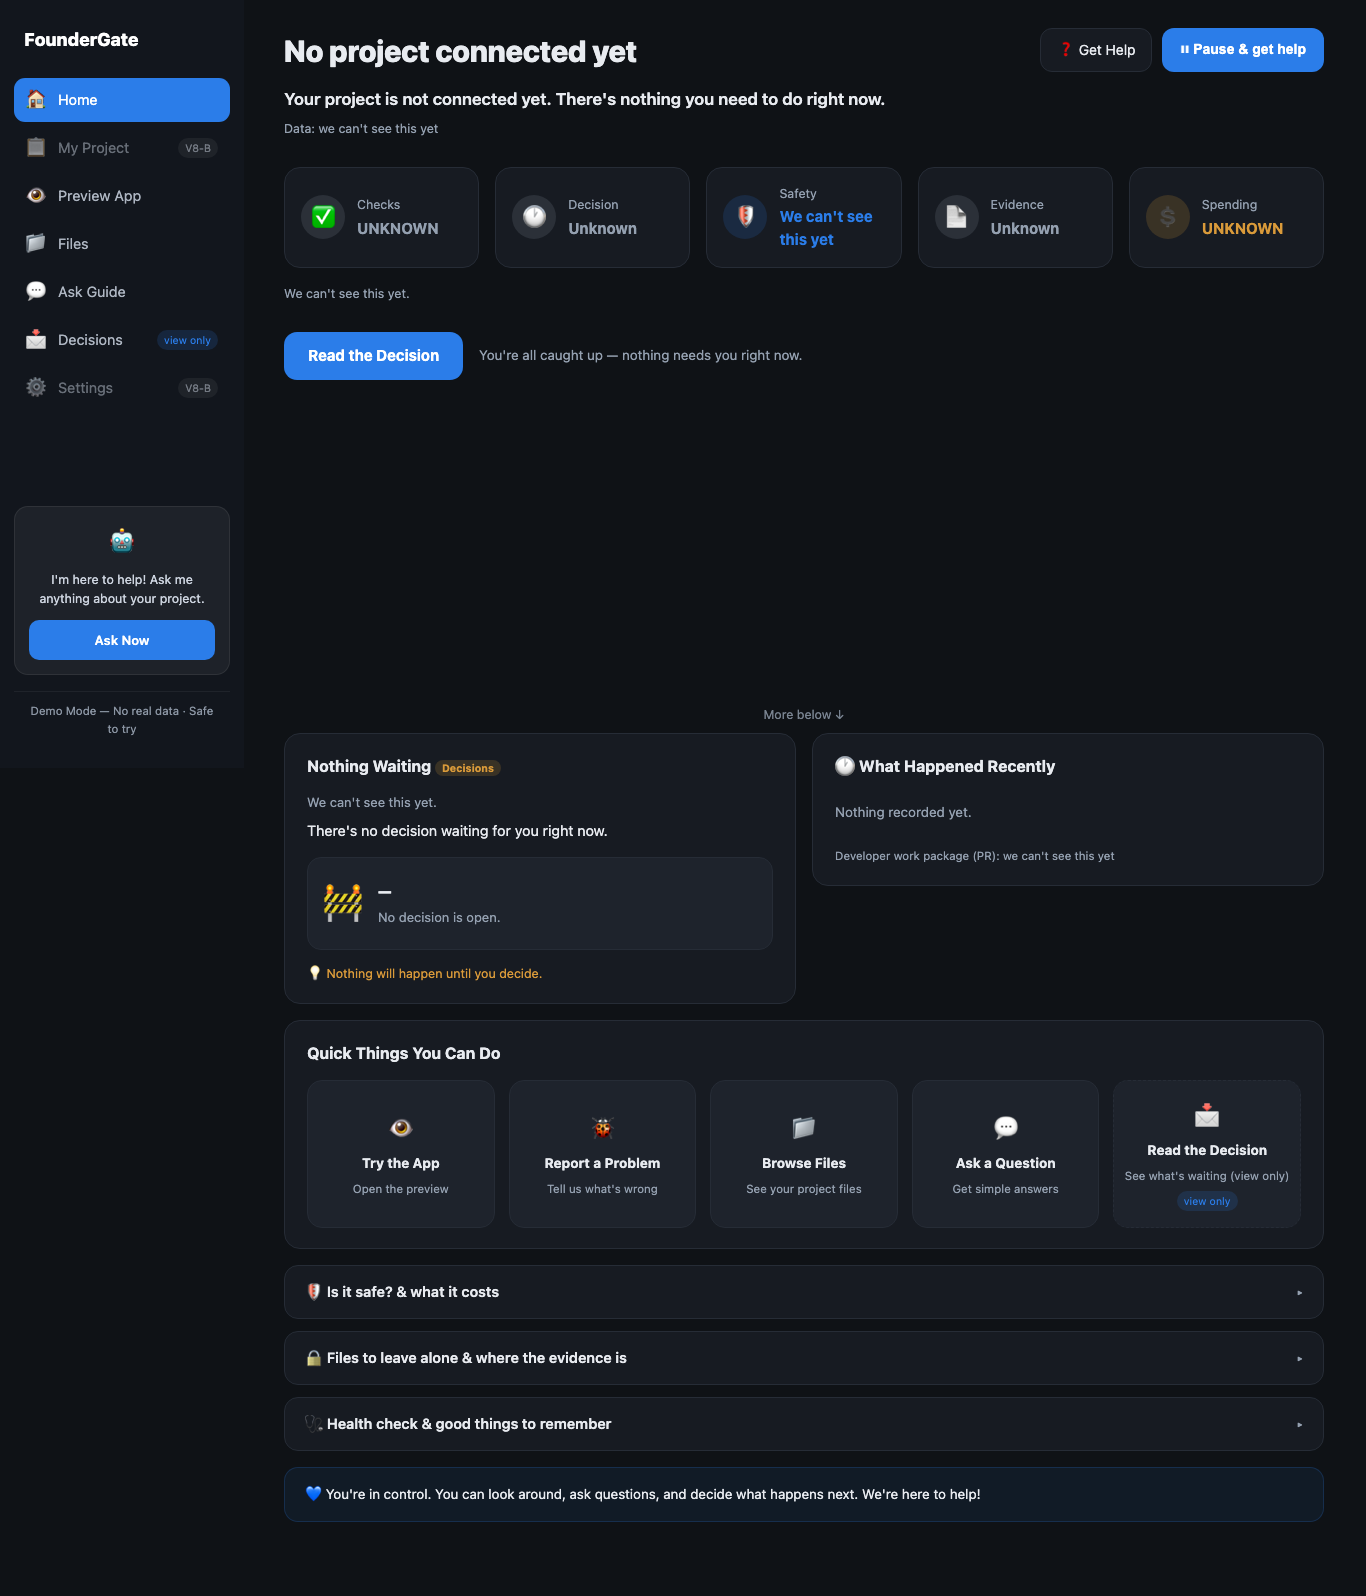
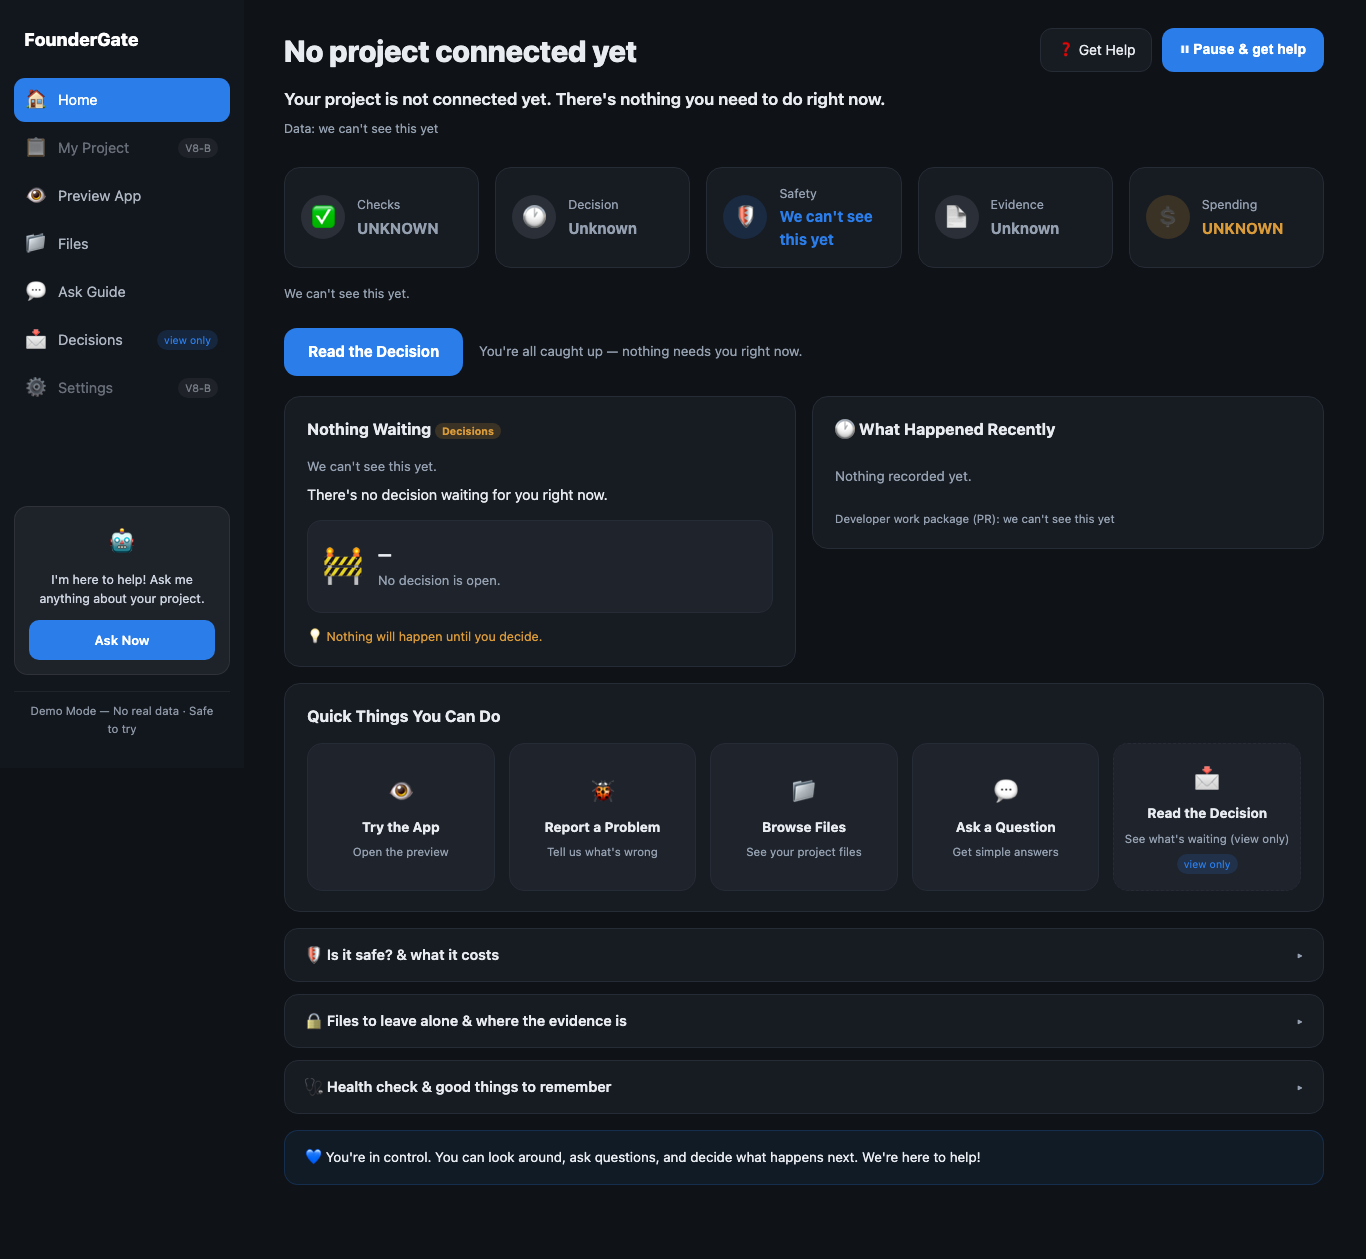
VA-VISUAL-LAW: fix tall-viewport dashboard void + adopt THE VISUAL SELF-REVIEW LAW
PART 1 — defect: .layer1 had min-height: calc(100vh - 210px) (+ scroll cue), which
stretched Layer 1 to fill tall viewports and left a large empty void before Layer 2;
the smoke's "Layer 2 below the fold" rule rewarded it. Fix: removed the artificial
min-height/spacer/scroll-cue — Layer 1 takes natural height, Layer 2 flows right
after. Guard CORRECTED (not deleted): (a) all Layer-1 elements fully above the fold;
(b) Layer 1 presents <=6 role-labelled answers, all above the fold; (c) NEW anti-void
assertion (no vertical gap >120px between consecutive sections); all geometry now
runs at BOTH 1366x768 and 1440x900.

PART 2 — doctrine: THE VISUAL SELF-REVIEW LAW (Assembly Manual §23 + Where-Am-I
standing rules): before any founder witness gate / stranger session / gallery
handoff, the CTO must screenshot every founder-facing screen (full + fold) at
1366x768 AND 1440x900, actually LOOK and reason as a first-time human, fix-or-disclose,
and record a one-line verdict per screen. A witness card without this recorded review
is INVALID. Honest scope: reduces not eliminates human catches. Enforced by
src/tools/visual-review.selftest.mjs.

First review recorded (docs/assembly-evidence/visual-review/): Dashboard + File Cabinet
PASS; Preview Bay + Guide PASS with two minor parked/disclosed notes (café Send below
the embed fold; sparse empty Guide chat). Founder Gate Ledger: doctrine amendment.

Suite 45/45.

diff --git a/src/v8a1/dashboard/styles.css b/src/v8a1/dashboard/styles.css
@@ -48,8 +48,8 @@ body { background: var(--bg); color: var(--text);
 .btn-pause.wide { width: 100%; margin: 8px 0; }
 .pause-scope { margin: 0 0 16px; font-size: 13px; color: var(--text); background: rgba(43,125,233,.12); border-radius: 12px; padding: 12px 14px; }
 
-/* ===== LAYER 1 — owns the first screen (only thing above the fold) ===== */
-.layer1 { min-height: calc(100vh - 210px); display: flex; flex-direction: column; }
+/* ===== LAYER 1 — the essentials; natural height, Layer 2 flows right after ===== */
+.layer1 { margin-bottom: 20px; }
 .chips-row { display: grid; grid-template-columns: repeat(5, 1fr); gap: 16px; }
 @media (max-width: 1000px) { .chips-row { grid-template-columns: repeat(2, 1fr); } }
 .statchip { display: flex; align-items: center; gap: 12px; min-height: 76px; padding: 16px; border: 1px solid var(--line); border-radius: 16px; background: var(--panel); }
@@ -62,13 +62,12 @@ body { background: var(--bg); color: var(--text);
 .qchip.attention { color: var(--bad); } .qchip.caution { color: var(--warn); }
 .qchip.ok { color: var(--ok); } .qchip.info { color: var(--accent); } .qchip.unknown { color: var(--muted); }
 .strip-note { margin: 16px 0 0; font-size: 12.5px; color: var(--muted); }
-.next-action { display: flex; align-items: center; gap: 16px; margin-top: 28px; }
+.next-action { display: flex; align-items: center; gap: 16px; margin-top: 24px; }
 .btn-primary { min-height: 48px; display: inline-flex; align-items: center; background: var(--accent); color: #fff; text-decoration: none; font-weight: 700; font-size: 15px; padding: 0 24px; border-radius: 13px; }
 .next-note { color: var(--muted); font-size: 13.5px; }
-.scroll-cue { margin-top: auto; padding-top: 24px; text-align: center; color: var(--muted); font-size: 12.5px; opacity: .8; }
 
-/* ===== LAYER 2 — context ===== */
-.layer2 { margin-top: 8px; }
+/* ===== LAYER 2 — context (flows immediately after Layer 1) ===== */
+.layer2 { margin-top: 0; }
 .card { background: var(--panel); border: 1px solid var(--line); border-radius: 16px; padding: 20px 22px; margin-bottom: 16px; }
 .card h2 { font-size: 16px; margin: 0 0 14px; }
 .mainrow { display: grid; grid-template-columns: 1fr 1fr; gap: 16px; align-items: start; }

diff --git a/src/v8a1/dashboard/index.html b/src/v8a1/dashboard/index.html
@@ -45,7 +45,6 @@
             <a class="btn-primary" id="read-decision" href="#waiting">Read the Decision</a>
             <span class="next-note" id="next-note"></span>
           </div>
-          <div class="scroll-cue" id="scroll-cue">More below ↓</div>
         </section>
 
         <!-- ===================== LAYER 2 — one scroll: context ===================== -->

diff --git a/docs/assembly-evidence/visual-review/VISUAL_REVIEW.md b/docs/assembly-evidence/visual-review/VISUAL_REVIEW.md
@@ -1,0 +1,26 @@
+# VISUAL SELF-REVIEW — verdict (first review under THE VISUAL SELF-REVIEW LAW)
+
+> **Bundle:** VA-VISUAL-LAW · **Date:** 2026-07-10 · **Reviewer:** FounderGate CTO (looked at each image and reasoned
+> as a first-time human would). **Scope:** all four founder-facing screens at **1366×768** and **1440×900**, full-page
+> and above-the-fold. Screenshots in this folder (`<screen>-<viewport>-{full,fold}.png`).
+>
+> **Honest scope note (from the law):** this review *reduces, not eliminates,* human catches. The founder witness
+> gate remains the final filter.
+
+## One-line verdict per screen
+
+| Screen | 1366×768 | 1440×900 | Verdict |
+|--------|----------|----------|---------|
+| **Truth Dashboard** | clean | clean | **PASS** — the tall-viewport VOID is fixed: Layer 1 (identity + 5 chips + "Read the Decision") sits above the fold, Layer 2 flows immediately after with even spacing, no dead space; reads as a real product. |
+| **Preview Bay** | good | good | **PASS (note)** — the embedded **Luna Café** app reads as a believable site (logo, menu, prices). *Minor, parked:* the café is embedded in a fixed-height frame, so the practice **"Send order"** button is below the frame's visible area — reachable by scrolling the embed or via **Open Full Screen**. Not broken; disclosed. |
+| **File Cabinet** | clean | clean | **PASS** — clear categories; PUBLIC_SAFE (green "safe to read") vs SECRET/UNKNOWN (red "protected / not sorted") badges with lock glyphs; one-click "show protected & blocked" filter; empty preview panel shows the expected "Pick a file…" prompt. No voids/overlaps. |
+| **Project Guide** | functional | functional | **PASS (note)** — chat works (prompt chips, input, honest read-only note). *Minor, parked:* before the first question the chat area looks **sparse** (empty space between chips and input). Functional and fills on first answer; a friendly placeholder line would improve it. V8-A4 is accepted — not fixed in this bundle; disclosed. |
+
+## Defect fixed in this bundle
+**Dashboard tall-viewport void** — `.layer1` had `min-height: calc(100vh - 210px)` (plus a scroll cue), which stretched Layer 1 to fill the screen and left a large empty gap before Layer 2 on tall viewports. The smoke's old "Layer 2 must start BELOW the fold" rule *rewarded* that void. **Fixed:** removed the artificial min-height/spacer/scroll-cue; Layer 1 takes natural height and Layer 2 flows right after. **Guard corrected (not deleted):** (a) all Layer-1 elements fully above the fold; (b) Layer 1 presents ≤6 role-labelled answers, all above the fold; (c) NEW anti-void — no vertical gap >120px between consecutive sections; and all geometry now runs at **both** 1366×768 and 1440×900.
+
+## Parked / disclosed (not blockers for Run 4)
+1. Preview Bay embed: café "Send order" below the frame fold (Open Full Screen works).
+2. Project Guide: sparse empty chat before first question.
+
+Both are minor and do not read as "broken." Neither blocks the Run-4 stranger session; surfaced here per the law's disclosure requirement for the founder to weigh.

diff --git a/docs/assembly-evidence/FOUNDER_GATE_LEDGER.md b/docs/assembly-evidence/FOUNDER_GATE_LEDGER.md
@@ -28,4 +28,5 @@
 | 2026-07-10 | G-VA-REWITNESS — review VA-REPAIR + authorize re-run | **RE-RUN AUTHORIZED** | "I reviewed the VA-REPAIR before/after for all five fixes (D1–D5) at `bba9f36` — they address the Run-1 failures. I authorize a second Stranger Test run with a fresh real non-developer; V8-A acceptance stays PENDING until a re-run passes all 7 steps unaided." VA-LOCKS installed two permanent controls first (branch protection; fixture-pristine guard). | VA-REPAIR at `bba9f36`; run-2 sheet `docs/assembly-evidence/VA/stranger-test-run-2.md` |
 | 2026-07-10 | STRANGER TEST RUN 2 — V8-A whole-product | **NOT PASSED (major improvement; 3 new findings)** | Real non-developer (founder's 9-year-old, first exposure, founder-observed). 5/7 PASS (Preview+mock-send, Bug, File Cabinet, Guide+injection-refusal, Pause+do-not-touch — validating D1–D5); Steps 1 & 6 PARTIAL. Per the pre-declared rule, product-confusion findings → F1 plain project summary, F2 cost findability, F3 decision plain summary; file-name/"too many words" observations logged as age reading-load, not blockers. **V8-A acceptance stays PENDING.** Repair VA-REPAIR-2 (friendly dashboard redesign) runs; re-run (Run 3) required. | run record `docs/assembly-evidence/VA/stranger-test-run-2.md` |
 | 2026-07-10 | STRANGER TEST RUN 3 — V8-A whole-product (acceptance candidate) | **FAILED** | Adult non-developer ("Dana", first exposure, founder-observed). Step 1 FAIL (20+ min; **could not find the project name** — redesign regression; couldn't settle is-it-working/safe), Step 2 FAIL (preview "looked like a broken app" — mock content too skeletal); Steps 3–7 NOT VERIFIED (not clearly dictated, Law 54). Founder: "This test is a fail." **V8-A acceptance stays PENDING.** Repair VA-REPAIR-3 (research-grounded redesign R1 identity-first + R2 three-layer decompression + R3 realistic demo fixture) runs; Run 4 required. | run record `docs/assembly-evidence/VA/stranger-test-run-3.md` |
+| 2026-07-10 | DOCTRINE AMENDMENT — THE VISUAL SELF-REVIEW LAW | **ADOPTED (founder-mandated)** | Before any founder witness gate, stranger session, or gallery handoff, the CTO must screenshot every founder-facing screen (full + above-the-fold) at 1366×768 AND 1440×900, actually LOOK and reason as a first-time human (voids/overlaps/truncation/contrast/"looks broken"), fix in-scope or park-and-disclose, and record a one-line verdict per screen. A witness card without this recorded review is INVALID. Honest scope: reduces not eliminates human catches; the founder witness gate is the final filter. Added to Assembly Manual §23 + Where-Am-I standing rules; enforced by src/tools/visual-review.selftest.mjs. | Assembly Manual §23; first review docs/assembly-evidence/visual-review/VISUAL_REVIEW.md |
 | | Any live/payment/provider/send/production/legal/IP/security/external-account gate | | | |

diff --git a/docs/ASSEMBLY_MANUAL.md b/docs/ASSEMBLY_MANUAL.md
@@ -425,3 +425,32 @@ Record the decision in the Founder Gate Ledger with date and packet SHA. Nothing
 ---
 
 **Assembly Manual V1.2 is a companion to Roadmap V8.11. If this manual conflicts with Roadmap V8.11, Roadmap V8.11 wins. The FounderGate CTO (Harvest Terminal — the seat Roadmap V8.11 calls "Terminal-0" for this repo) runs autonomous bundles gate-to-gate; B1 continues into B2 without founder relay when machine gates pass.**
+
+---
+
+## 23. THE VISUAL SELF-REVIEW LAW (permanent; founder-mandated 2026-07-10)
+
+**Why this exists:** three of four consecutive founder interventions during the V8-A stranger-test cycle were
+*visual* defects the machine already had the tools to catch (a stale-tab/port-identity mix-up; a tall-viewport
+dead-space void) — with Playwright and screenshots already in hand. Confirming that checklist elements *exist* is
+not the same as *looking* at the screen.
+
+**The law.** Before ANY founder witness gate, stranger session, or gallery handoff, the CTO must:
+
+1. **Capture** full-page AND above-the-fold screenshots of **every** founder-facing screen at **both** standard
+   (**1366×768**) and tall (**1440×900**) viewports.
+2. **Actually LOOK** at each image and reason about it as a first-time human would — voids, overlaps, truncation,
+   misalignment, unreadable contrast, anything that would make a stranger say "this looks broken" — **not merely
+   confirm that checklist elements exist.**
+3. **Fix** in-scope defects found, **or park and disclose** them.
+4. **Record** the review as evidence — the screenshots **plus a one-line verdict per screen** — in the relevant
+   bundle's evidence folder (canonical: `docs/assembly-evidence/visual-review/`, file `VISUAL_REVIEW.md`).
+
+**A witness card presented without this recorded review is INVALID and must be rejected by the founder.**
+
+**Honest scope note (part of the law):** this review *reduces, not eliminates,* human catches. Automated geometry
+guards + this human-style look are a filter, not a guarantee; the **founder witness gate remains the final filter**.
+
+**Mechanical enforcement:** where mechanical, the suite fails if the visual-review verdict is absent or stale for
+founder-facing UI — `src/tools/visual-review.selftest.mjs` (in CI) requires `VISUAL_REVIEW.md` to exist, cover all
+four screens at both viewports with a verdict line each, and reference on-disk screenshots.

diff --git a/docs/assembly-evidence/WHERE_AM_I.md b/docs/assembly-evidence/WHERE_AM_I.md
@@ -36,3 +36,13 @@
 
 **Note:** `#15` / `6273b3808f2af8bad3983cfde41bbc44772a9dcc` are stamped with the real PR number and exact merge SHA immediately after the sheriff
 merge. B0 is docs-only; no code, no schema, no `src/` change was made.
+
+## Standing rules (permanent)
+- **THE VISUAL SELF-REVIEW LAW** (Assembly Manual §23, founder-mandated 2026-07-10): before **any** founder witness
+  gate, stranger session, or gallery handoff, the CTO must (1) screenshot every founder-facing screen full-page +
+  above-the-fold at **1366×768 and 1440×900**, (2) actually **look** and reason as a first-time human (voids,
+  overlaps, truncation, contrast, "looks broken"), not just confirm elements exist, (3) fix in-scope or
+  park-and-disclose, and (4) record the review (screenshots + one-line verdict per screen) in
+  `docs/assembly-evidence/visual-review/VISUAL_REVIEW.md`. **A witness card without this recorded review is INVALID.**
+  Honest scope: this reduces, not eliminates, human catches — the founder witness gate is the final filter.
+  Mechanically enforced by `src/tools/visual-review.selftest.mjs`.
